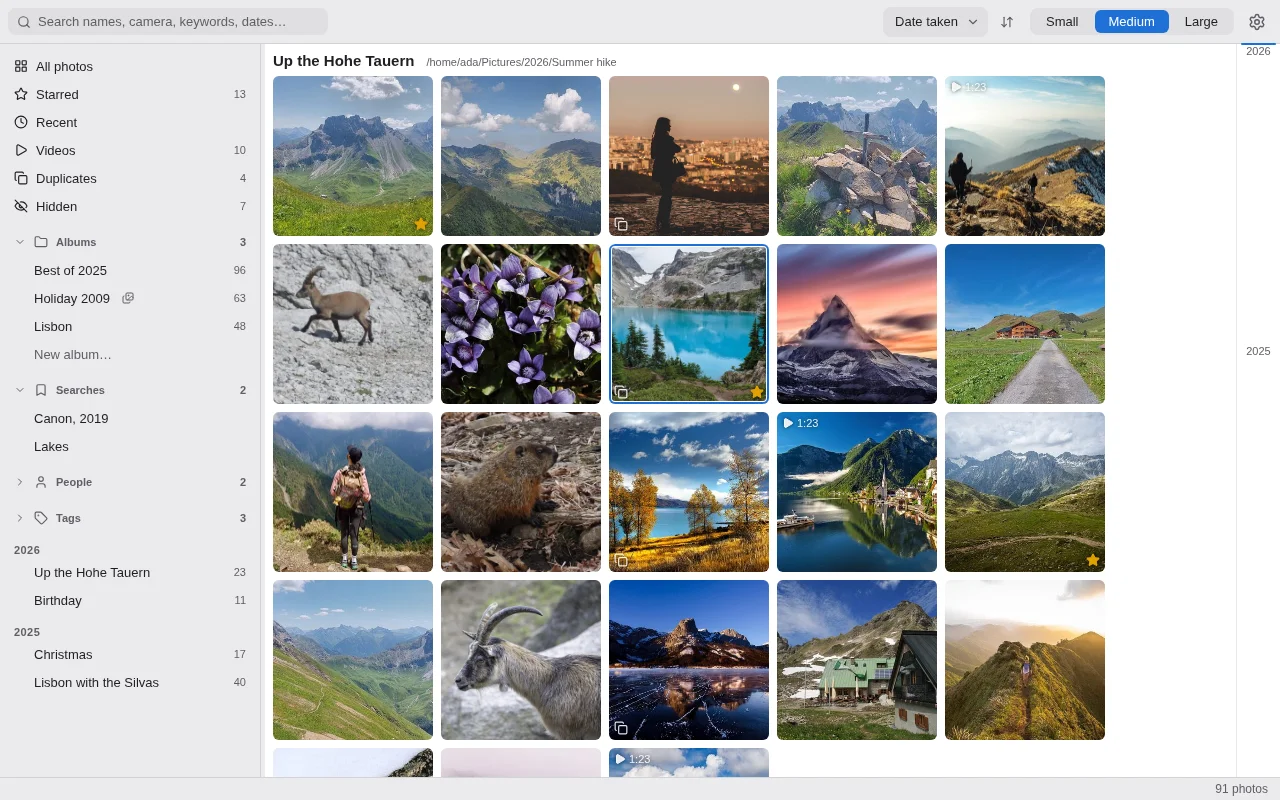
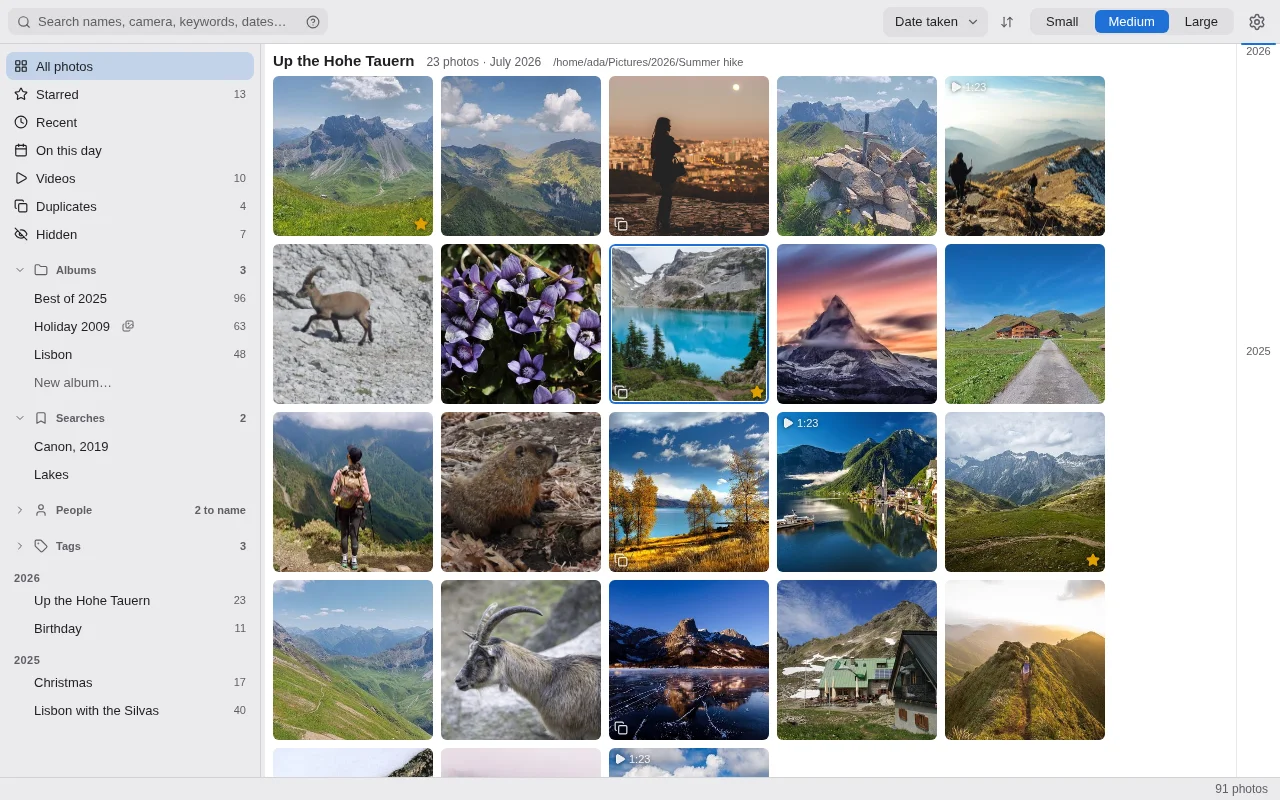
chore(site): screenshots of 0.51.0 (#156)
The website's three screenshots and its link-preview image were of the main
window as it was at the end of September: no count and month in the folder headers, no help
button in the search box, All photos unmarked in the sidebar, and an info panel
without the histogram or the location. Regenerated from 0.51.0 with the CC0
photos (`xtask screenshots --photos`), converted as before (WebP at 85, the
preview JPEG at 88; each within 2% of the size it replaces). The viewer's alt
text and caption name what the panel now shows.

With real photos the viewer shot drew two outlines around stretches of skyline:
the mock's unnamed faces, added for the People work, are rectangles placed for a
gradient. The server now puts a flag before `mock.js` when `--photos` is given
and the mock leaves those faces out, so the photo has Anna's alone. Gradient
runs are unchanged. Tested: the flag is served with photos, first, and not
without; and the mock reads it. Dropping the branch, inverting it, and taking
the read out of the mock each fail the test.

diff --git a/crates/xtask/screenshots/mock.js b/crates/xtask/screenshots/mock.js
@@ -121,7 +121,9 @@
           ? "Grandma's 80th, on the terrace in Lisbon, everyone gathered right before sunset for cake and the last of the summer light over the river."
           : null,
       faces: [{ key: 'p:1', name: 'Anna', left: 0.3, top: 0.25, right: 0.42, bottom: 0.5, faceId: 11 }],
-      unnamedFaces: [{ left: 0.56, top: 0.3, right: 0.66, bottom: 0.5, faceId: 12 }, { left: 0.75, top: 0.3, right: 0.82, bottom: 0.45, faceId: null }],
+      // Rectangles placed for a gradient. With real photos (`--photos`, which sets the flag
+      // before this file runs) they would outline scenery, so the photo has Anna's face alone.
+      unnamedFaces: window.__PHOTON_REAL_PHOTOS__ ? [] : [{ left: 0.56, top: 0.3, right: 0.66, bottom: 0.5, faceId: 12 }, { left: 0.75, top: 0.3, right: 0.82, bottom: 0.45, faceId: null }],
       kind: id === 5 ? 'video' : 'image',
       durationMs: id === 5 ? 83_000 : null,
       videoCrashed: false,

diff --git a/site/index.html b/site/index.html
@@ -148,8 +148,8 @@
   </div>
 
   <figure>
-    <img src="img/viewer-info-light.webp" width="1280" height="800" loading="lazy" alt="photon's viewer with the info panel open, listing camera, lens, exposure, dates, people, keywords and albums">
-    <figcaption>The viewer's info panel: camera data, every date a photo has, people, keywords and albums.</figcaption>
+    <img src="img/viewer-info-light.webp" width="1280" height="800" loading="lazy" alt="photon's viewer with the info panel open, listing the caption, camera, lens, exposure, a histogram, dates, location, people, keywords and albums">
+    <figcaption>The viewer's info panel: caption, camera data and histogram, every date a photo has, where it was taken, people, keywords and albums.</figcaption>
   </figure>
 
   <h2>Coming from Picasa</h2>

diff --git a/crates/xtask/src/screenshots.rs b/crates/xtask/src/screenshots.rs
@@ -22,6 +22,10 @@ use std::{
 
 const MOCK_JS: &str = include_str!("../screenshots/mock.js");
 
+/// The global the mock reads to learn that real photos are being served (`--photos`). Set
+/// by a line put before the mock, so it is there when the mock first runs.
+const REAL_PHOTOS_FLAG: &str = "__PHOTON_REAL_PHOTOS__";
+
 /// The script `ui/index.html` loads first. The mock is injected ahead of it, because
 /// theme-boot.js is the first thing to run and `app-theme` calls the backend at import.
 const BOOT_TAG: &str = r#"<script src="/theme-boot.js">"#;
@@ -381,7 +385,16 @@ pub fn respond(path: &str, dist: &Path, photos: &[PathBuf]) -> Response {
         return media(id, photos);
     }
     if path == "/mock.js" {
-        return Response::ok("text/javascript", MOCK_JS);
+        // With real photos the mock is told so: the faces it says photon found and nobody
+        // named are rectangles placed for a gradient, and on a real photo they outlined a
+        // stretch of skyline with no face in it - on the website's own screenshot.
+        if photos.is_empty() {
+            return Response::ok("text/javascript", MOCK_JS);
+        }
+        return Response::ok(
+            "text/javascript",
+            format!("window.{REAL_PHOTOS_FLAG} = true;\n{MOCK_JS}"),
+        );
     }
     // Bound to loopback and short-lived, but a server that reads files refuses to leave its
     // root all the same.
@@ -692,6 +705,22 @@ mod tests {
             "image/jpeg"
         );
         assert!(list_photos(&temp_dist(&[("a.png", "x")])).is_err());
+    }
+
+    #[test]
+    fn the_mock_is_told_when_real_photos_are_served() {
+        let dir = temp_dist(&[("01.jpg", "x")]);
+        let photos = list_photos(&dir).unwrap();
+        let mock =
+            |photos: &[PathBuf]| String::from_utf8(respond("/mock.js", &dir, photos).body).unwrap();
+        let flag = format!("window.{REAL_PHOTOS_FLAG} = true;");
+        // Before the mock, which reads it as it builds its answers.
+        assert!(mock(&photos).starts_with(&flag));
+        assert!(mock(&photos).ends_with(MOCK_JS));
+        // Gradients keep every face: the People screenshots are drawn from them.
+        assert_eq!(mock(&[]), MOCK_JS);
+        // And the mock does read it; a flag nothing reads would pass the lines above.
+        assert!(MOCK_JS.contains(&format!("window.{REAL_PHOTOS_FLAG} ? []")));
     }
 
     #[test]

diff --git a/CLAUDE.md b/CLAUDE.md
@@ -74,7 +74,11 @@ cargo run -p xtask -- scroll-probe   # the end of a 300k-photo library is reacha
 The project website (`site/`, deployed to photon.webcodr.io by `pages.yml`) uses these
 screenshots with real photos: `--photos crates/xtask/screenshots/photos` serves the CC0 photos
 there (credited in their `CREDITS.md`) in place of the gradients. Regenerate `main-light`,
-`main-dark` and `viewer-info-light` with it and convert them to `site/img/*.webp`.
+`main-dark` and `viewer-info-light` with it and convert them to `site/img/*.webp`
+(`magick x.png -quality 85 x.webp`), and `main-light` to `site/img/og.jpg` at quality 88, the
+link preview. With `--photos` the server puts a flag before `mock.js`, and the mock then leaves
+out the faces it says nobody has named: they are rectangles placed for a gradient, and on a
+real photo they outlined skyline.
 
 `npm run dev` runs the app with hot reload. **Do not run it to verify a change** — see
 Conventions.
